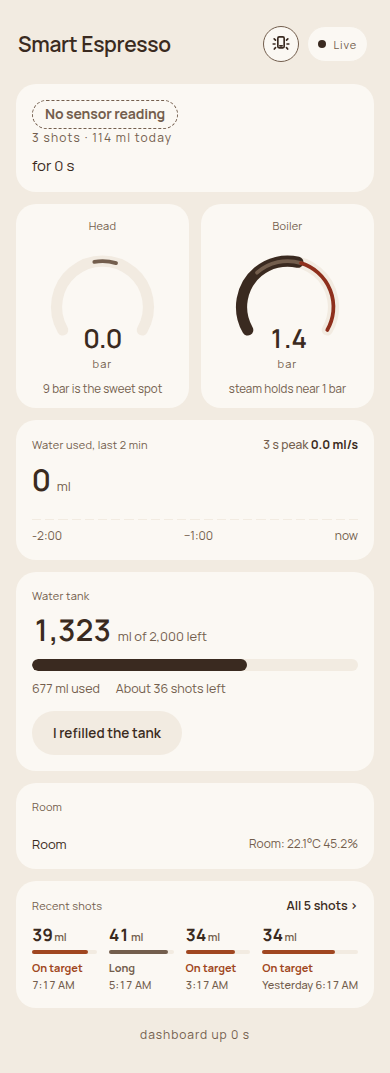
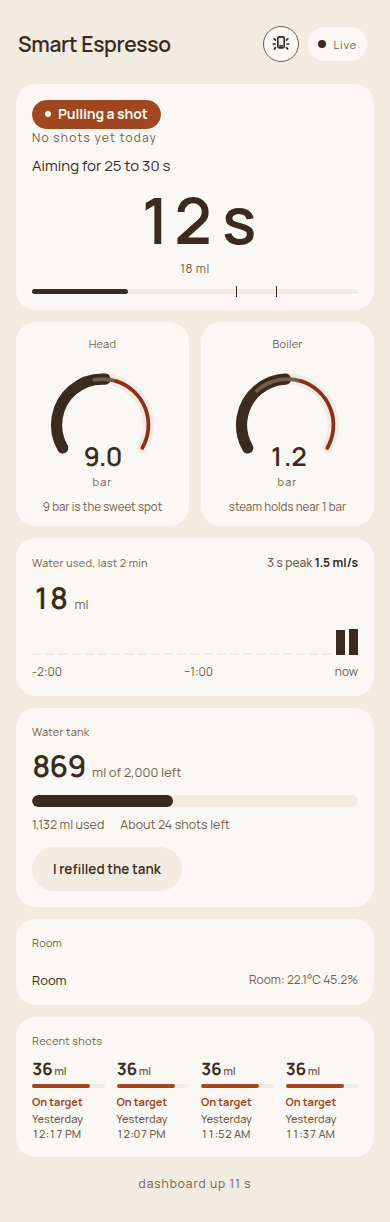
fix: let recent tile times wrap inside four equal columns
A time like Yesterday 12:17 PM was nowrap, so the four-tile grid
grew past the phone. Columns are minmax(0, 1fr) and the time can wrap.
Shell cache is espresso-shell-v72.

diff --git a/smart_espresso/web/static/index.html b/smart_espresso/web/static/index.html
@@ -790,7 +790,7 @@
   /* Four ml tiles. The bar is ml/45. On target uses the accent. */
   .recent-tiles {
     display: grid;
-    grid-template-columns: repeat(4, 1fr);
+    grid-template-columns: repeat(4, minmax(0, 1fr));
     gap: 12px;
     margin-top: 8px;
   }
@@ -798,6 +798,7 @@
   .recent-tile {
     display: block;
     width: 100%;
+    min-width: 0;
     margin: 0;
     padding: 0;
     border: 0;
@@ -852,7 +853,7 @@
     font-size: 11px;
     font-weight: 500;
     color: var(--mute, var(--ink-faint));
-    white-space: nowrap;
+    min-width: 0;
     font-variant-numeric: tabular-nums;
   }
 

diff --git a/smart_espresso/web/static/sw.js b/smart_espresso/web/static/sw.js
@@ -2,7 +2,7 @@
 // still opens (slightly stale, clearly marked so by the page itself) when
 // the machine's server hiccups. Sensor data is never cached: /api/* always
 // goes to the network.
-const CACHE = 'espresso-shell-v65';
+const CACHE = 'espresso-shell-v72';
 const SHELL = [
   '/',
   '/dashboard_logic.js',

diff --git a/smart_espresso/test/test_dashboard_logic.py b/smart_espresso/test/test_dashboard_logic.py
@@ -390,6 +390,12 @@ class TestShippedShell:
         assert "font-variant-numeric: tabular-nums" in _css_rule(
             self.page, ".recent-tile .t"
         )
+        tiles = _css_rule(self.page, ".recent-tiles")
+        assert "repeat(4, minmax(0, 1fr))" in tiles
+        when = _css_rule(self.page, ".recent-tile .t")
+        assert "white-space: nowrap" not in when
+        assert "min-width: 0" in when
+        assert "min-width: 0" in _css_rule(self.page, ".recent-tile")
         bar = _css_rule(self.page, ".recent-bar")
         assert "height: 4px" in bar
         assert call("logic.recentTile(26, 34, 25, 30)")["label"] == "On target"

diff --git a/smart_espresso/test/test_dashboard_contrast.py b/smart_espresso/test/test_dashboard_contrast.py
@@ -158,7 +158,7 @@ class TestDashboardContrast:
         assert "fonts.googleapis.com" not in self.worker
         assert "fonts.gstatic.com" not in self.worker
         assert "/fonts/manrope.woff2" in self.worker
-        assert "espresso-shell-v65" in self.worker
+        assert "espresso-shell-v72" in self.worker
         font = PAGE.parent / "fonts" / "manrope.woff2"
         assert font.is_file()
         assert font.read_bytes()[:4] == b"wOF2"
